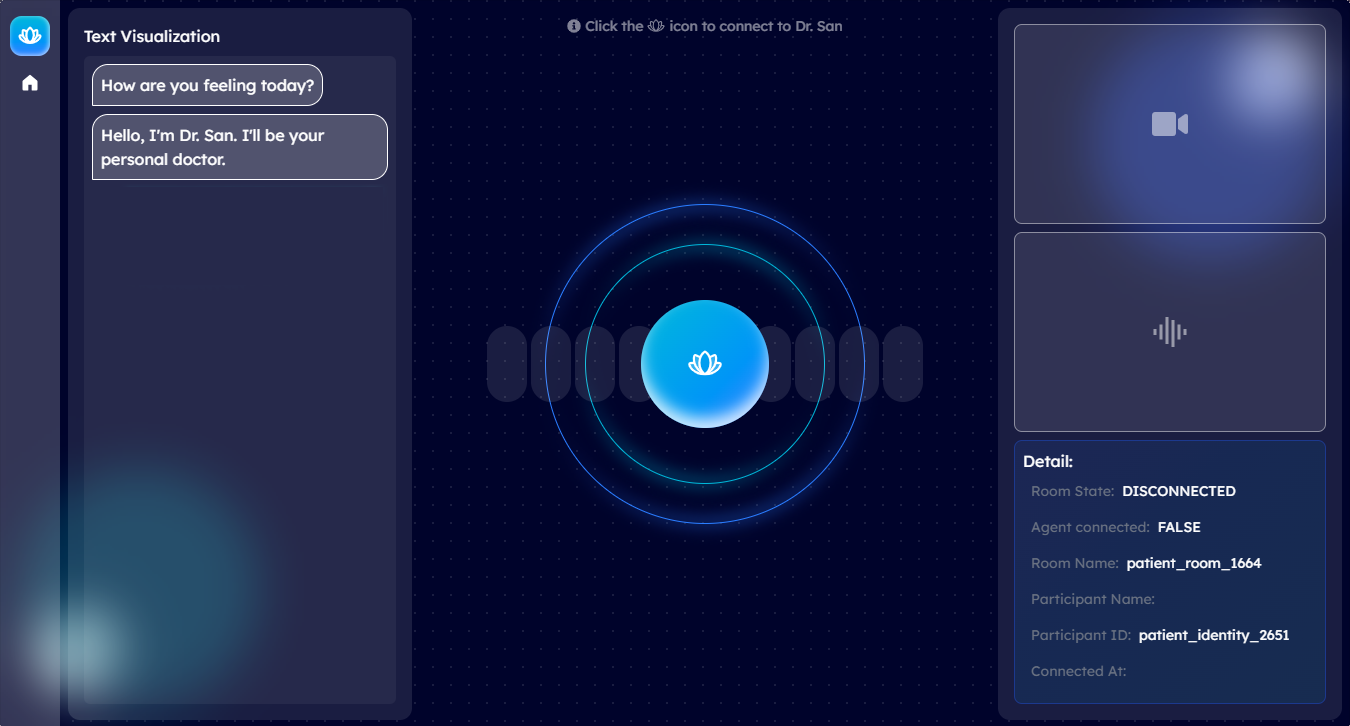
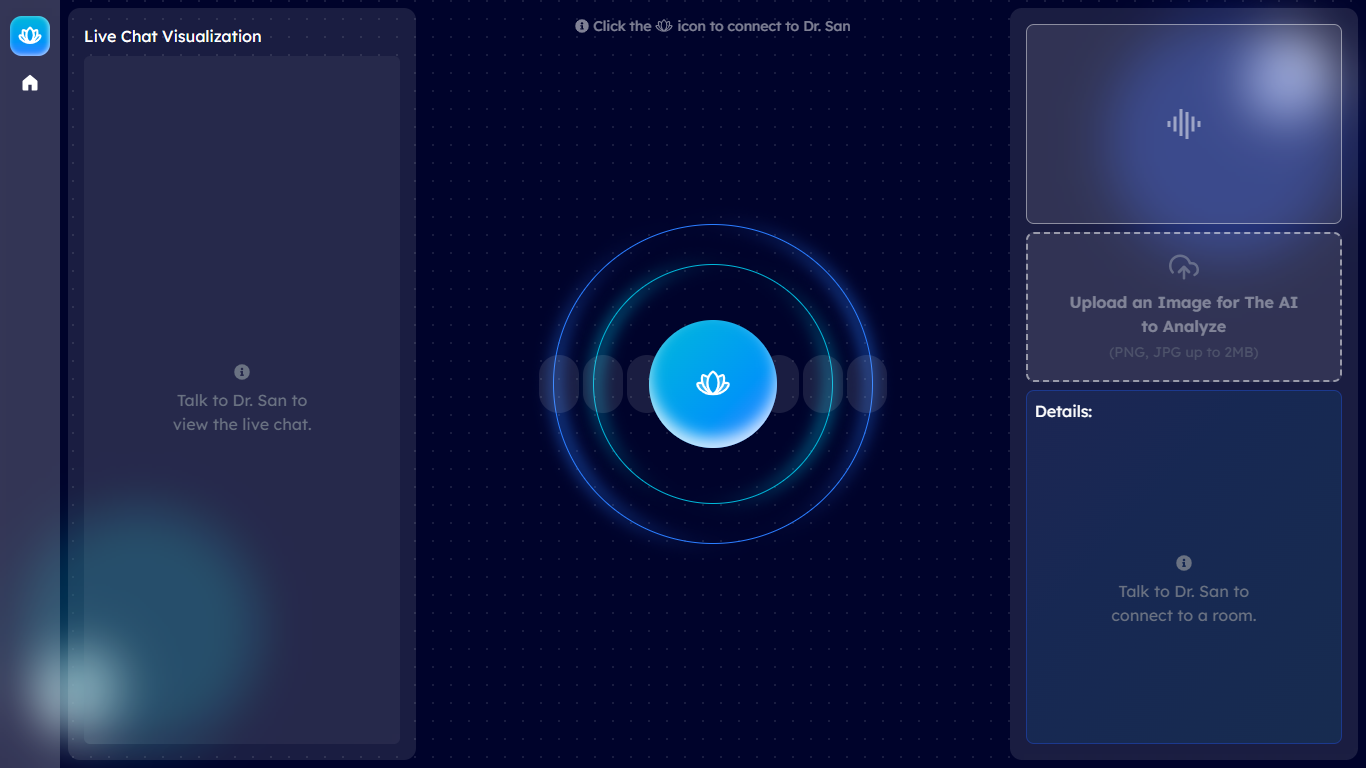
Refactor layout and styling in Hero and MiddleSection components for improved responsiveness and visual consistency

diff --git a/components/landing/Hero.tsx b/components/landing/Hero.tsx
@@ -11,21 +11,6 @@ import HeroImageDecorations from "@/components/decorations/HeroImageDecorations"
 const Hero = () => {
   return (
     <div className="relative flex-center pt-20 md:pt-40 px-5 md:px-20 lg:px-32">
-      <div
-        className="hidden md:block z-20 absolute bottom-0 w-screen h-[80vh] lg:h-[110vh]"
-        style={{
-          background:
-            "radial-gradient(circle at 50% 0%, transparent 50%, #00032b 70%)",
-        }}
-      />
-
-      <div
-        className="md:hidden z-20 absolute bottom-0 w-screen h-screen"
-        style={{
-          background:
-            "radial-gradient(circle at 50% 0%, transparent 80%, #00032b 85%)",
-        }}
-      />
       <HeroDecorations />
 
       {/* Main Content */}
@@ -99,10 +84,22 @@ const Hero = () => {
           </Link>
         </motion.div>
 
-        {/* Hero Image */}
-        {/* <div className="relative z-10 h-14 translate-y-1/2 w-full flex-center">
-          <div className="absolute size-[120%] bg-[#00032b] blur-md"></div>
-        </div> */}
+        <div
+          className="hidden md:block z-20 absolute bottom-0 w-screen h-[80vh] lg:h-[110vh]"
+          style={{
+            background:
+              "radial-gradient(circle at 50% 0%, transparent 40%, #00032b 60%)",
+          }}
+        />
+
+        <div
+          className="md:hidden z-20 absolute bottom-0 w-screen h-screen"
+          style={{
+            background:
+              "radial-gradient(circle at 50% 0%, transparent 70%, #00032b 85%)",
+          }}
+        />
+
         <motion.div
           initial={{ opacity: 0, y: 50 }}
           animate={{ opacity: 1, y: 0 }}
@@ -110,7 +107,7 @@ const Hero = () => {
           className="relative w-full max-w-5xl aspect-video my-10 md:my-16 p-8"
         >
           <HeroImageDecorations />
-          <div className="relative size-full border-x border-t border-white/50 bg-white/10 backdrop-blur-sm inset-0 bg-[url('/dashboard.png')] bg-cover bg-center bg-no-repeat object-center object-contain rounded-3xl">
+          <div className="relative size-full border-x border-t border-white/50 bg-white/10 backdrop-blur-sm inset-0 bg-[url('/dashboard.png')] bg-cover bg-no-repeat object-center object-contain rounded-xl md:rounded-2xl rounded-3xl">
             <div className="absolute -inset-2 border-8 blur-sm"></div>
           </div>
         </motion.div>

diff --git a/app/(root)/consultation/page.tsx b/app/(root)/consultation/page.tsx
@@ -9,7 +9,6 @@ import {
   DisconnectButton,
   RoomAudioRenderer,
   RoomContext,
-  VideoTrack,
   useConnectionState,
   useLocalParticipant,
   useRoomInfo,
@@ -183,7 +182,7 @@ function MiddleSection(props: {
   const [mainBtnLoading, setMainBtnLoading] = useState(false);
 
   return (
-    <div className="relative flex-1 flex-center">
+    <div className="min-h-[80vh] relative flex-1 flex-center min-w-full md:min-w-auto">
       <ConnectButtonDecore />
 
       {agentState !== "disconnected" && (
@@ -225,13 +224,13 @@ function MiddleSection(props: {
         )}
       </motion.div>
 
-      <div className="absolute h-48 w-full flex-center">
+      <div className="absolute h-48 w-screen flex-center">
         <BarVisualizer
           state={voiceAssistant.state}
           barCount={10}
           trackRef={voiceAssistant.audioTrack}
           options={{ minHeight: 30, maxHeight: 80 }}
-          className="size-full flex-center flex-wrap gap-1"
+          className="h-full w-full flex-center flex-wrap gap-1"
         >
           <div className="size-10 rounded-full bg-white/10" />
         </BarVisualizer>
@@ -470,7 +469,7 @@ function RightSection(props: { room: Room }) {
             initial={{ opacity: 0 }}
             animate={{ opacity: 1 }}
             transition={{ duration: 0.5 }}
-            className="flex-center flex-col gap-2 h-full text-gray-500"
+            className="flex-center flex-col gap-2 h-full text-gray-500 py-2"
           >
             <FaInfoCircle />
             <p className="max-w-[150px] text-center">

diff --git a/components/decorations/HeroDecorations.tsx b/components/decorations/HeroDecorations.tsx
@@ -25,7 +25,7 @@ const HeroDecorations = () => {
             className="absolute top-1/4 left-10 -translate-y-1/2 size-80 hidden md:flex flex-center"
           >
             <div className="absolute size-30 rounded-full bg-blue-500 blur-3xl" />
-            <div className="absolute size-80 rounded-full bg-[url('/circle-dots.webp')] bg-center bg-cover" />
+            <div className="hidden md:block absolute size-80 rounded-full bg-[url('/circle-dots.webp')] bg-center bg-cover" />
           </motion.div>
         </MouseParallax>
 
